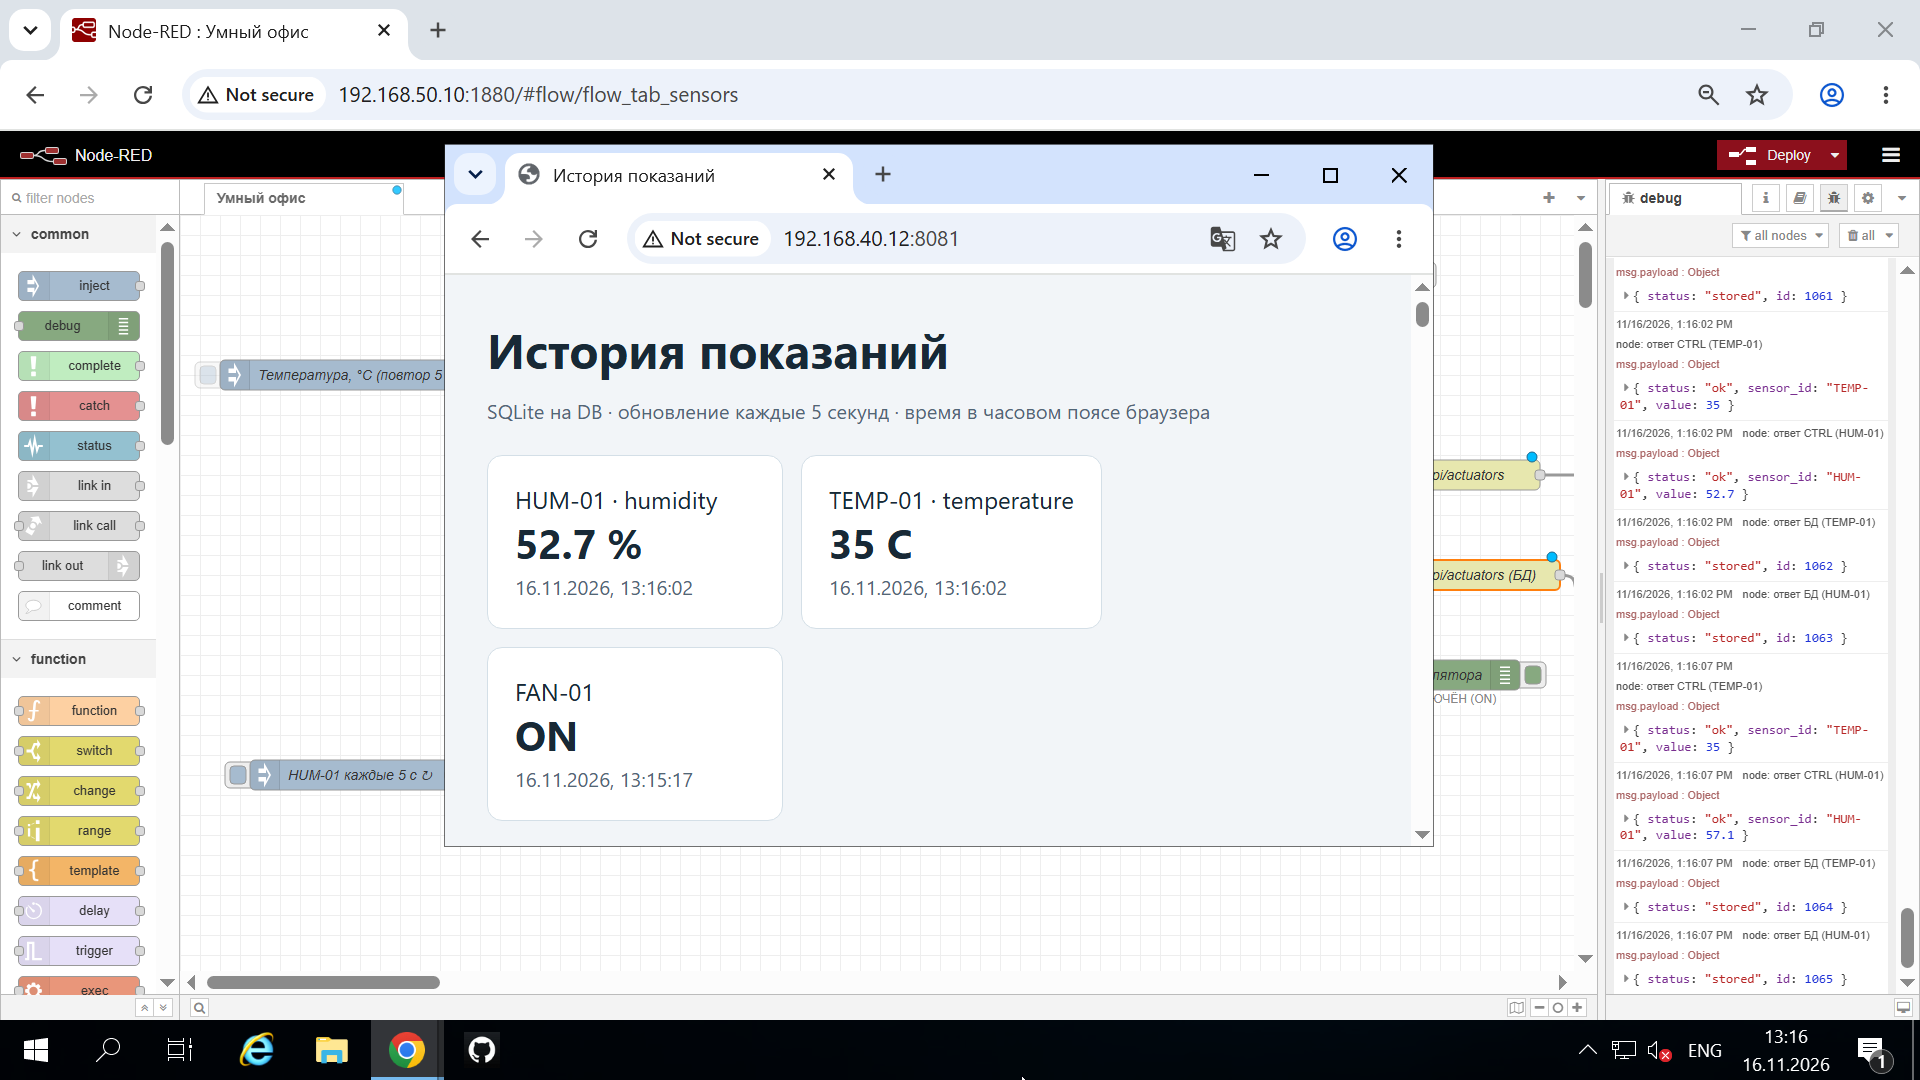
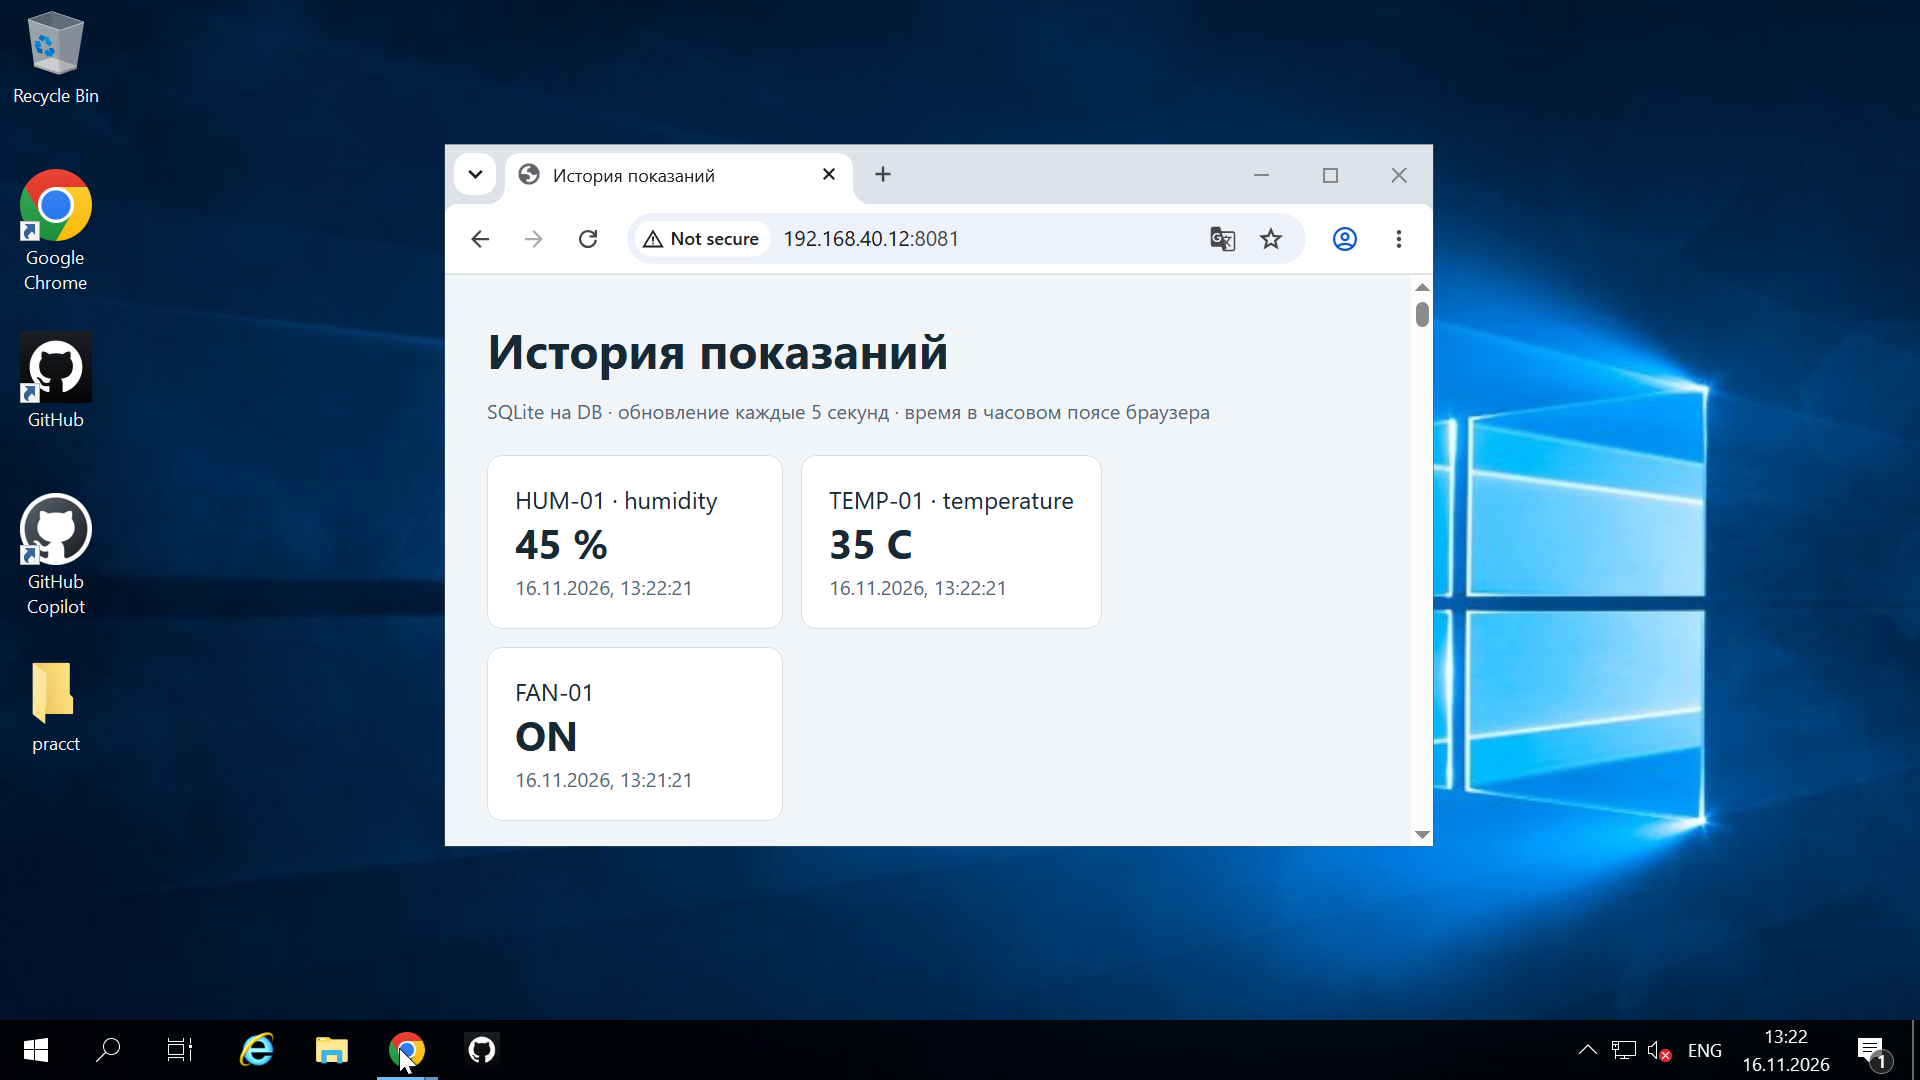
Влажность задаётся вручную

diff --git a/practice6/README.md b/practice6/README.md
@@ -165,26 +165,24 @@ inject «Температура, °C (повтор 5 с)» — ручной вв
                                         ├→ POST /api/actuators      → CTRL-01
                                         └→ POST /api/actuators (БД) → DB-01
 
-inject «HUM-01 каждые 5 с» (влажность, автоматически)
+inject «Влажность, % (повтор 5 с)» — ручной ввод, значение повторяется каждые 5 с
    └─ change «HUM-01: показание» → POST /api/readings → CTRL-01 и БД
 ```
 
-**Температуру задаёшь ты сам**, случайных значений нет: двойной клик по узлу
-«Температура, °C (повтор 5 с)» → вписать число → **Done** → **Deploy**.
+**Оба значения задаёшь ты сам**, случайных чисел в потоке нет: двойной клик по узлу
+«Температура, °C (повтор 5 с)» или «Влажность, % (повтор 5 с)» → вписать число →
+**Done** → **Deploy**.
 
 Почему значение повторяется: иначе, если один раз ввести число и больше не нажимать inject,
-в базе и на странице «История показаний» карточка TEMP-01 «замерзает» на старом времени —
-кажется, что ничего не выводится. С повтором каждые 5 секунд уходит **твоё** число (не случайное),
-и график обновляется постоянно. Поменял число → дальше повторяется новое.
+в базе и на странице «История показаний» карточки TEMP-01 и HUM-01 «замерзают» на старом
+времени — кажется, что ничего не выводится. С повтором каждые 5 секунд уходят **твои** числа
+(не случайные), и графики обновляются постоянно. Поменял число → дальше повторяется новое.
 
-Почему появился узел «только при изменении» (`rbe`): температура теперь идёт каждые 5 секунд,
+Почему появился узел «только при изменении» (`rbe`): температура идёт каждые 5 секунд,
 а состояние вентилятора меняется редко. Без фильтра в `actuator_events` каждые 5 секунд падало бы
 `ON`, и база забивалась бы одинаковыми событиями. `rbe` пропускает сообщение только тогда, когда
 `payload.state` реально сменился (`ON` → `OFF`), поэтому в таблице событий остаются только
 настоящие переключения.
-
-Влажность HUM-01 остаётся автоматической (каждые 5 секунд), чтобы в базе был непрерывный поток
-для графика.
 
 Почему это работает без пересборки объекта: формат тела запроса у приёмника и у хранилища
 **одинаковый** — `{"sensor_id","zone","value","unit","timestamp"}` для показаний и

diff --git a/README.md b/README.md
@@ -137,7 +137,7 @@ evidence6/                         — доказательства ПР №6: c
 | Датчик | Зона | Единица | Как задаётся значение |
 |---|---|---|---|
 | TEMP-01 | server_room | °C | **вручную**: двойной клик по узлу `inject` «Температура, °C (повтор 5 с)», число, Done, Deploy; введённое значение повторяется каждые 5 с |
-| HUM-01 | work_area | % | автоматически каждые 5 секунд (случайное 35…60) |
+| HUM-01 | work_area | % | **вручную**: узел `inject` «Влажность, % (повтор 5 с)», число, Done, Deploy; повтор каждые 5 с |
 
 Цепочка в Node-RED: `inject` → `change` (сборка объекта `msg.reading`) →
 `http request` (`POST http://192.168.40.10:8080/api/readings`) → `debug`.
@@ -204,7 +204,8 @@ TEMP-01, и ветку вентилятора. Введённое значени
 * ПР №6 — на DB-01 установлен `sqlite3 3.40.0`, база `telemetry.sqlite3` создана вручную
   по `schema.sql`; контейнер `practice6-storage-1` — `Up (healthy)`, `GET /health` отдаёт
   `{"status":"ok","storage":"sqlite","version":2}`. Node-RED отправляет данные параллельно
-  приёмнику и в базу: в `measurements` больше 130 строк по `TEMP-01` и `HUM-01`, в
-  `actuator_events` — оба состояния (`ON` при 35 °C, `OFF` при 25 °C). Веб-интерфейс
+  приёмнику и в базу: оба датчика задаются вручную (35 °C и 45 %) и повторяются каждые 5 секунд,
+  в `measurements` больше 1100 строк по `TEMP-01` и `HUM-01`, в `actuator_events` — только
+  реальные переключения (`ON` при 35 °C, `OFF` при 25 °C). Веб-интерфейс
   `http://192.168.40.12:8081/` открывается с WIN-01. Доказательства: `evidence6/01-storage.txt`,
-  `evidence6/03-sql.txt`, `evidence6/05-flow-fan.png`, `evidence6/08-web-ui.png`.
+  `evidence6/04-manual-temp-sql.txt`, `evidence6/05-flow.png`, `evidence6/08-web-ui.png`.

diff --git a/practice4/README.md b/practice4/README.md
@@ -29,8 +29,12 @@ WIN-01 (браузер)                    IOT-01                     CTRL-01
 
 | Датчик | sensor_id | zone | unit | Значение |
 |---|---|---|---|---|
-| Температура (серверная) | `TEMP-01` | `server_room` | `C` | 18…26 °C |
-| Влажность (рабочая зона) | `HUM-01` | `work_area` | `%` | 35…60 % |
+| Температура (серверная) | `TEMP-01` | `server_room` | `C` | вводится вручную в узле `inject` (по умолчанию 35 °C) |
+| Влажность (рабочая зона) | `HUM-01` | `work_area` | `%` | вводится вручную в узле `inject` (по умолчанию 45 %) |
+
+> Изначально значения были случайными (JSONata `$random()`). Сейчас оба датчика задаются вручную:
+> вписал число → **Done** → **Deploy**, и это же число повторяется каждые 5 секунд.
+> Случайности в потоке больше нет.
 
 Приёмник принимает только эти пары `sensor_id` + `zone` + `unit`, значение обязано быть
 числом, а `timestamp` — числом миллисекунд или строкой, которую понимает `Date.parse`.
@@ -82,8 +86,8 @@ curl -I http://127.0.0.1:1880/
 
 Значение и метку времени формирует `inject`:
 
-* `msg.payload` — выражение JSONata `$round(18 + $random() * 8, 1)` (для влажности
-  `$round(35 + $random() * 25, 1)`);
+* `msg.payload` — тип **number**, число вводится вручную (например `35` для температуры
+  и `45` для влажности); узел отправляет его каждые 5 секунд (`repeat` = 5);
 * `msg.timestamp` — свойство типа «timestamp» (в `flows.json` это `vt: "date"`), узел
   подставляет текущее время в миллисекундах (`Date.now()`).
 

diff --git a/journal.md b/journal.md
@@ -126,3 +126,14 @@
   на странице `http://192.168.40.12:8081/` карточки HUM-01, TEMP-01 и FAN-01 показывают
   свежее время. Доказательства: `evidence6/02-before-fix-stale.png` (как было),
   `evidence6/04-manual-temp-sql.txt`, `evidence6/05-flow.png`, `evidence6/08-web-ui.png`.
+
+### Влажность тоже задаётся вручную
+
+- **Что сделал:** убрал случайное значение у HUM-01 (`$round(35 + $random() * 25, 1)`).
+  Теперь узел `inject` «Влажность, % (повтор 5 с)» — ручной ввод числа (по умолчанию 45 %),
+  значение повторяется каждые 5 секунд, как у температуры. Случайных чисел в потоке не осталось.
+- **Как проверил:** в базе `TEMP-01 = 35.0` и `HUM-01 = 45.0` приходят каждые 5 секунд
+  (id 1184/1186 в 10:21:26, id 1185/1187 в 10:21:31); на странице `http://192.168.40.12:8081/`
+  карточки HUM-01 45 %, TEMP-01 35 C и FAN-01 ON обновляются одновременно.
+  Доказательства: `evidence6/05-flow.png` (схема с двумя ручными inject),
+  `evidence6/09-both-manual.png` (страница с обоими значениями).

diff --git a/practice5/README.md b/practice5/README.md
@@ -72,8 +72,8 @@ switch (> 30 °C) ─┬─ ON  → change «Включить» ─┐
 при смене `payload.state`: пока температура остаётся выше 30 °C, повторные `ON` в приёмник и базу
 не уходят. В `actuator_events` остаются только реальные переключения.
 
-Влажность HUM-01 остаётся автоматической (каждые 5 секунд), чтобы в базе был непрерывный поток
-для графика.
+Влажность HUM-01 задаётся так же вручную (узел «Влажность, % (повтор 5 с)») — случайных чисел
+в потоке нет, оба значения повторяются каждые 5 секунд.
 
 ### Узел switch
 
